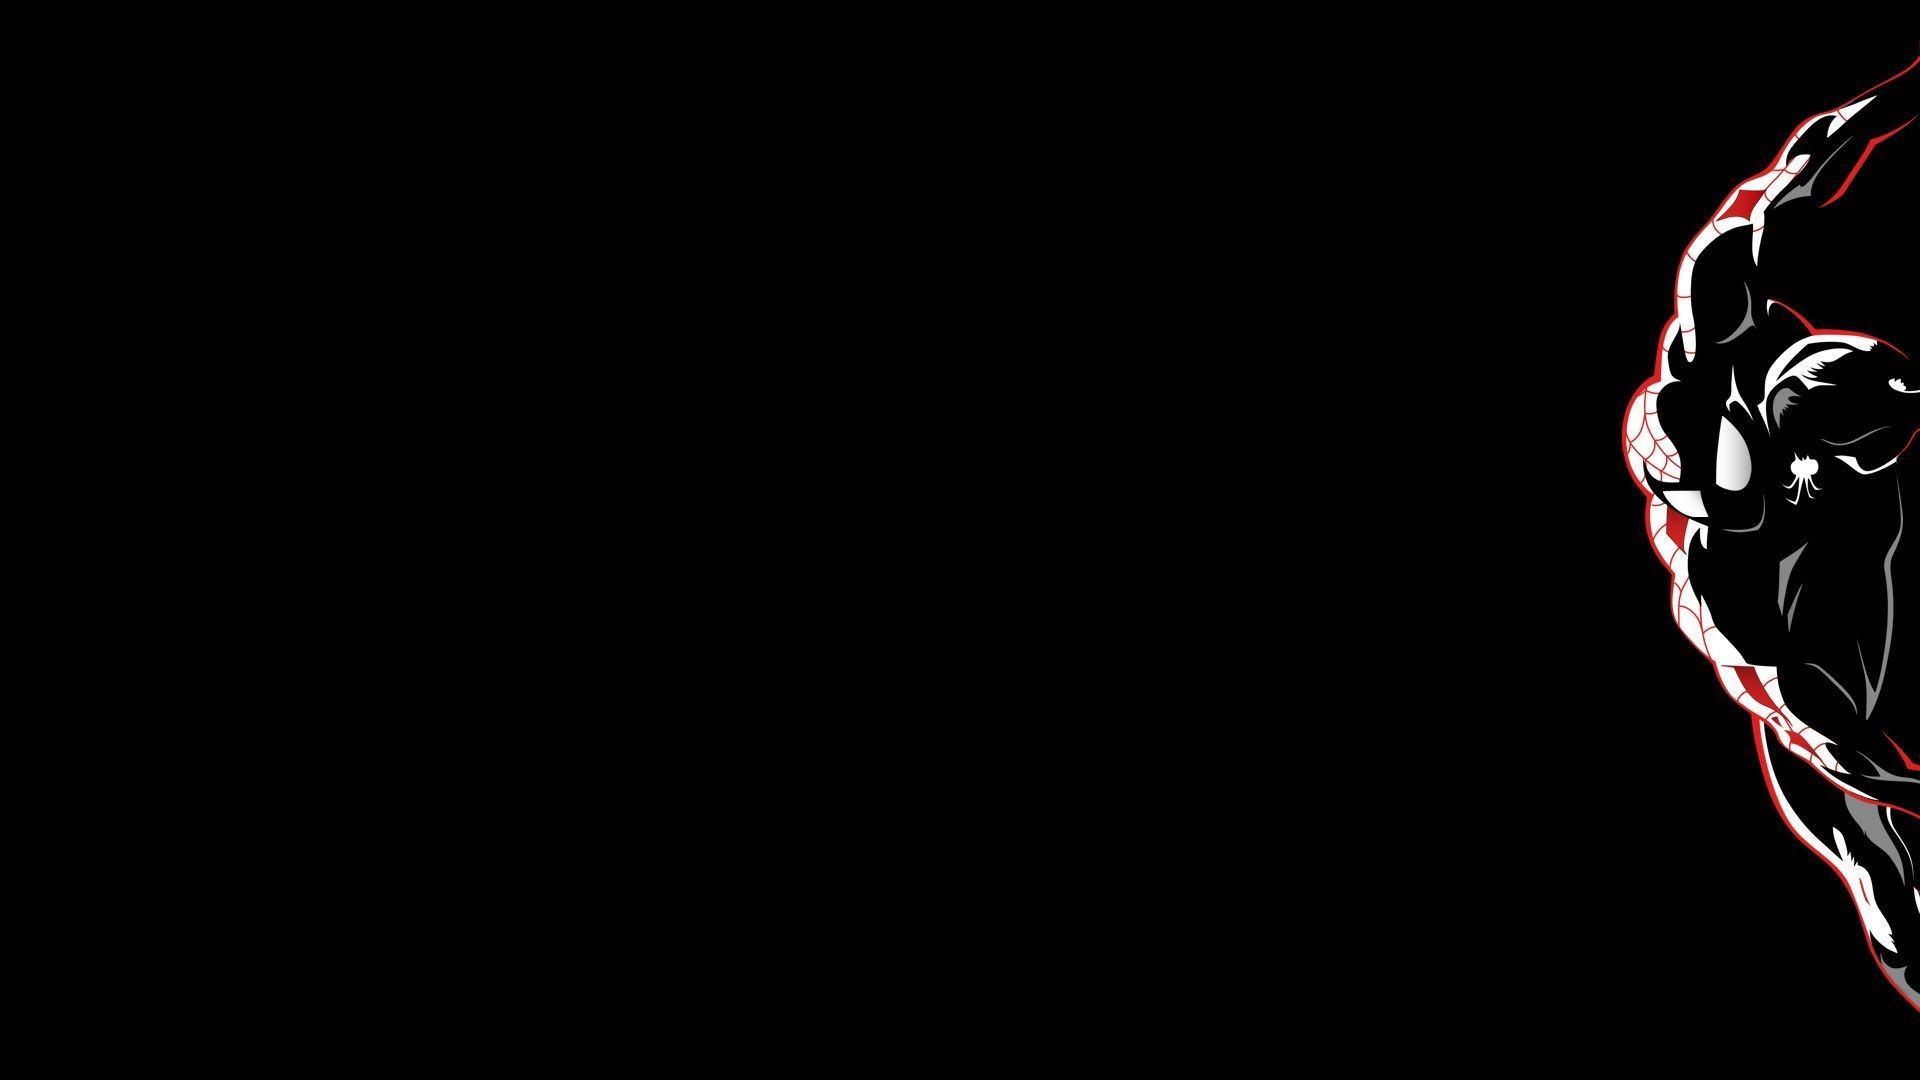
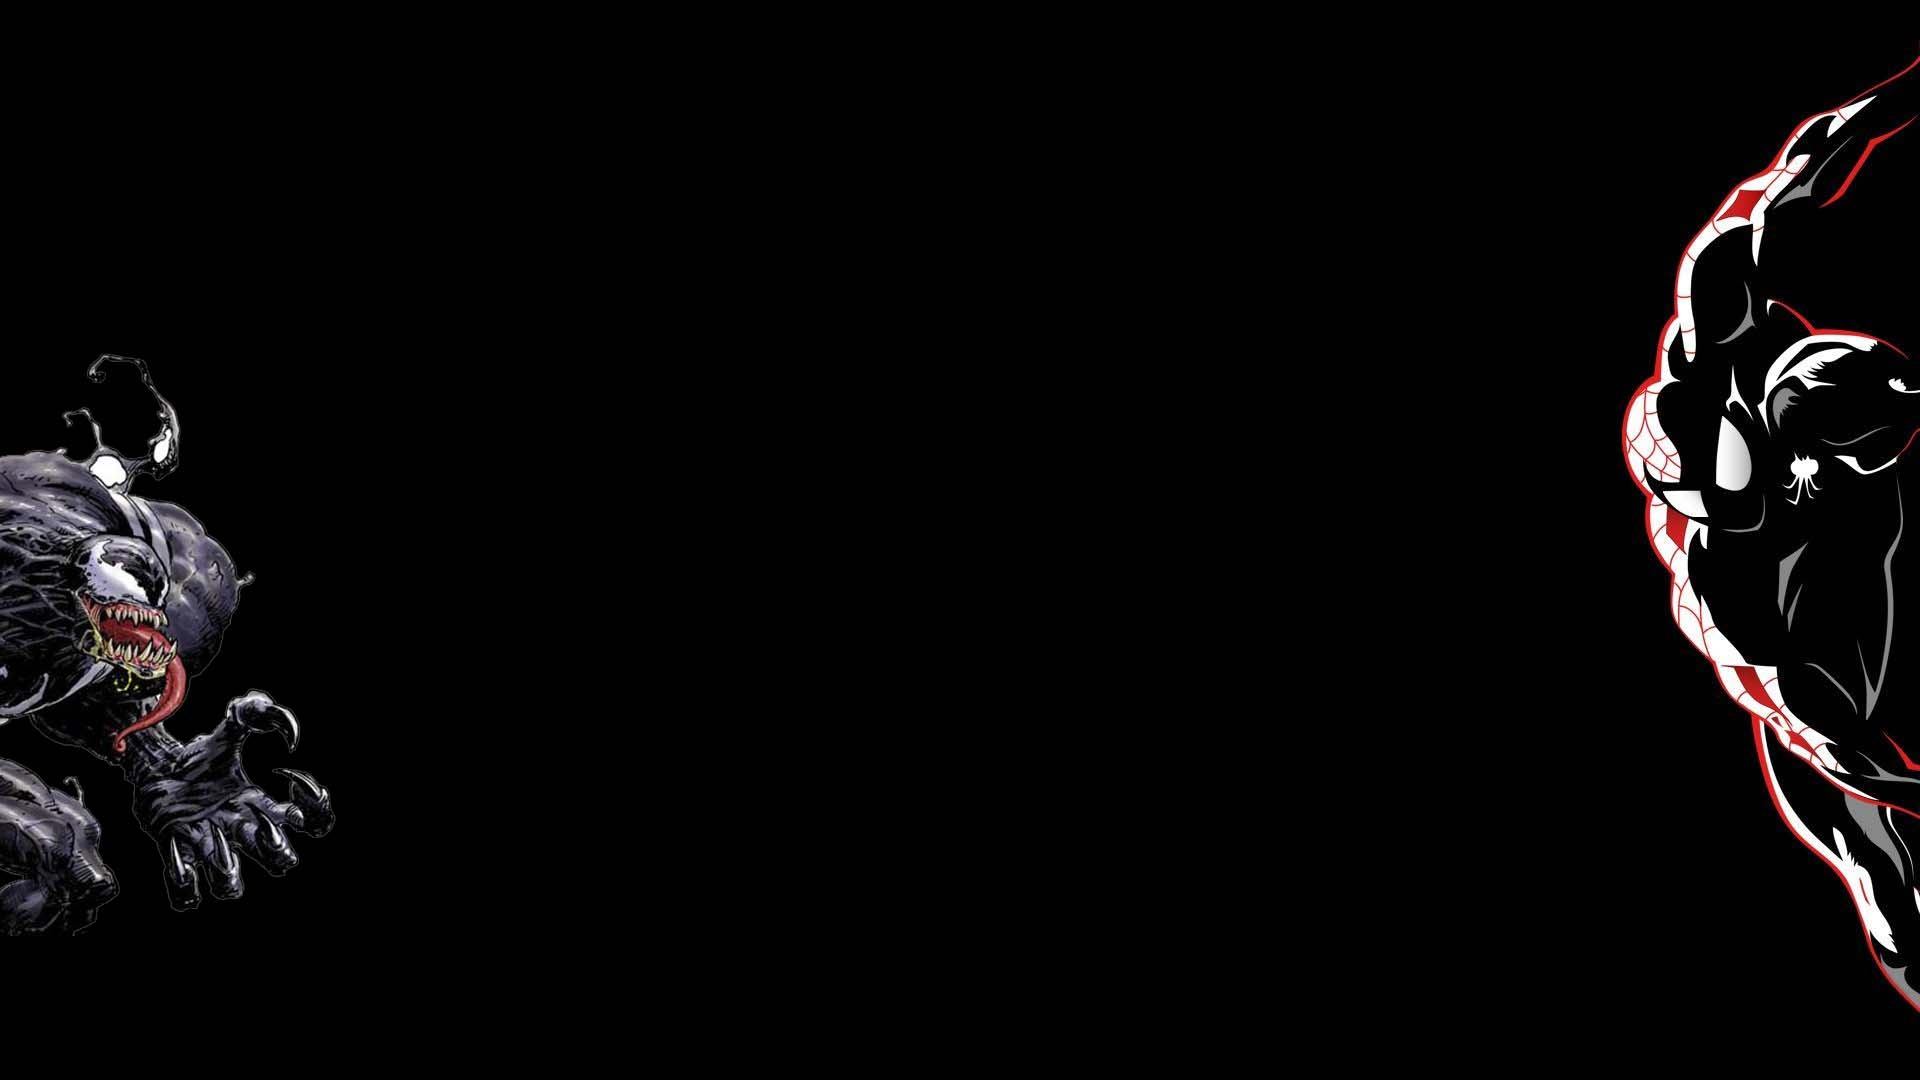
background image update

Changed region(s): [[0.0, 0.3667, 0.1875, 0.8556]]

diff --git a/src/styles/global.scss b/src/styles/global.scss
@@ -16,7 +16,7 @@
 body {
 	font-family: $montserrat;
 	color: $text;
-	background: url(../assets/spider-bg.jpeg) no-repeat;
+	background: url(../assets/spider-bg.png) no-repeat;
 	background-attachment: fixed;
 	background-size: contain;
 	background-position: top center;
